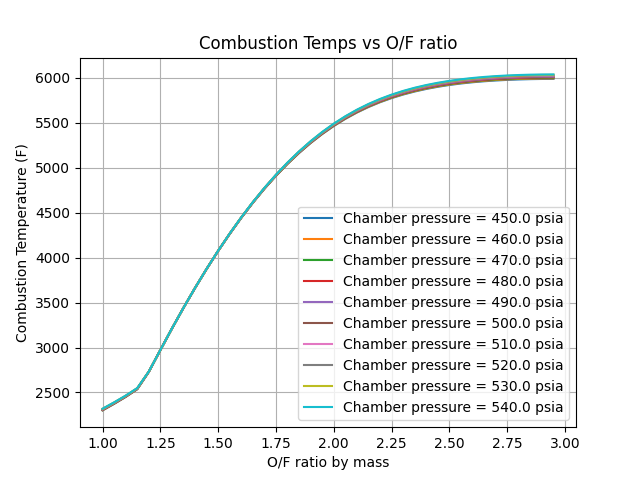
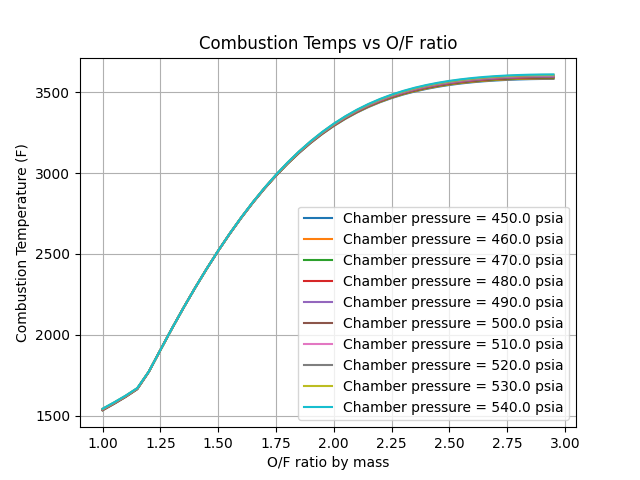
change to Kelvin from F

diff --git a/TCA/TCA Sizing Code Files/Final_Graphing_Script.py b/TCA/TCA Sizing Code Files/Final_Graphing_Script.py
@@ -15,8 +15,8 @@ np.set_printoptions(legacy='1.25')   #Fix for some numpy float printing isssues 
 #Define Global Conversion Factors
 ##################################
 
-#Rankine to Fahrenheit conversion
-rankineToF = -459.67
+#Rankine to Kelvin conversion factor
+rankineToKelvin = 5.0 / 9.0
 
 ##################################
 #Define NASA Chemical Equilibrium with Applications (CEA) Object
@@ -101,7 +101,7 @@ plt.savefig(r"TCA\CEA Graphs\Specific_Impulse_P_Range.png")
 plt.figure(3)
 count = 0
 for mr in mr_range:
-    Comb_Ts[count] = C.get_Tcomb(Pc = pc, MR = mr) + rankineToF   #Outputs combustion temperature in Rankine, converts to Fahrenheit
+    Comb_Ts[count] = C.get_Tcomb(Pc = pc, MR = mr) * rankineToKelvin   #Outputs combustion temperature in Rankine, converts to Fahrenheit
     count = count + 1
 plt.plot(mr_range, Comb_Ts)
 plt.xlabel("O/F ratio by mass")
@@ -118,7 +118,7 @@ for p in range(pLo, pHi):
     count = 0
     for mr in mr_range:
         po = p * 10.0      #Multiplies p values by 10 to reach actual chamber pressure to test
-        Comb_Ts[count] = C.get_Tcomb(Pc = po, MR = mr) + rankineToF   #Outputs combustion temperature in Rankine, converts to Fahrenheit
+        Comb_Ts[count] = C.get_Tcomb(Pc = po, MR = mr) * rankineToKelvin   #Outputs combustion temperature in Rankine, converts to Fahrenheit
         count = count + 1
     plt.plot(mr_range, Comb_Ts, label = f'Chamber pressure = {po} psia')
 plt.xlabel("O/F ratio by mass")
